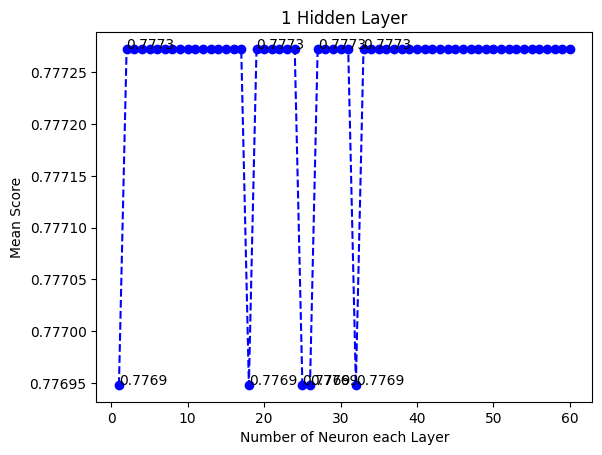
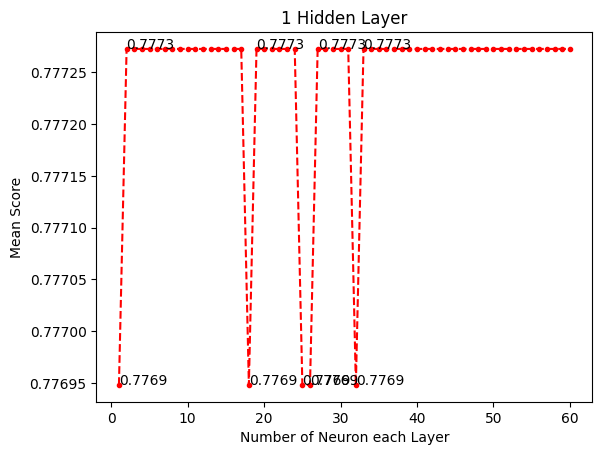
Updated variables and figures

diff --git a/FinalTest.py b/FinalTest.py
@@ -22,7 +22,7 @@ def split_data(csv, train_ratio, random_val, scale=True):
     return [x_train, x_test, y_train, y_test]
 
 # Generates neural network and runs fitting and prediction. Returns predictions, confusion matrix, and score
-def neural_network(data, hidden_layer_size, activation, solver, max_iter, shuffle = True, random_state = None):
+def neural_network(data, hidden_layer_size, activation, solver, max_iter, shuffle = False, random_state = None):
     mlp = MLPClassifier(hidden_layer_size, activation=activation, solver=solver, max_iter=max_iter, shuffle=shuffle, random_state=random_state)
     mlp.fit(data[0], data[2])
     prediction = mlp.predict(data[1])
@@ -35,17 +35,17 @@ def final_test(csv):
     solver = "lbfgs"
     
     # Test variables
-    num_test = 5
+    num_test = 200
     train_ratio = 0.8
     hidden_layer = (6, 6, 6, 6)
-    max_iteration = 100
+    max_iteration = 20
     results = [[], []]
 
     # Run test
     for test in range(num_test):
         print("Test run {} beginning".format(test+1))
         data = split_data(csv, train_ratio, test, True)
-        result = neural_network(data, hidden_layer, activation, solver, max_iteration, True, test)
+        result = neural_network(data, hidden_layer, activation, solver, max_iteration, False, test)
         results[0].append(result[1])
         results[1].append(result[2])
         print("Test run {} completed\n".format(test+1))
@@ -55,6 +55,17 @@ def final_test(csv):
     print("Mean Score: {}".format(mean_score))
     print("Summed Confusion Matrix:")
     print(sum(results[0]))
+
+    x = [i for i in range(1,num_test+1)]
+    y = results[1]
+    plt.figure()
+    plt.plot(x,y, "r.--")
+                
+    plt.title("Final Test")
+    plt.ylabel("Score")
+    plt.xlabel("Test Run")
+    plt.savefig("figures/Final_test/Final result",bbox_inches="tight")
+    plt.show()
 
 def main():
     # Reading csv file into dataframe

diff --git a/TestCase3-Iteration_test.py b/TestCase3-Iteration_test.py
@@ -34,11 +34,11 @@ def iteration_test(csv):
     solver = "lbfgs"
     
     # Test variables
-    num_test = 20
+    num_test = 30
     train_ratio = 0.8
     hidden_layer = (6, 6, 6, 6)
-    iteration_cap = 1000
-    iteration_hops = 5
+    iteration_cap = 100
+    iteration_hops = 1
     results = [[] for count in range(iteration_cap//iteration_hops)]
 
     # Run test
@@ -54,10 +54,7 @@ def iteration_test(csv):
     y = [sum(result)/num_test for result in results]
 
     plt.figure()
-    plt.plot(x,y)
-    for i,j in zip(x,y):
-            if j != y[i//iteration_hops-2]:
-                plt.annotate(str(round(j,4)),xy=(i,j))
+    plt.plot(x,y, "r.--")
                 
     plt.title("Iteration Test")
     plt.ylabel("Mean Score")

diff --git a/TestCase2-Hidden_Layers.py b/TestCase2-Hidden_Layers.py
@@ -64,7 +64,7 @@ def hidden_layer_test(csv):
         x = [num_neuron for num_neuron in range(neuron_iterate, max_neuron+neuron_iterate, neuron_iterate)]
 
         # Plotting
-        plt.plot(x, y, "bo--")
+        plt.plot(x, y, "r.--")
         for i,j in zip(x,y):
             if j != y[i//neuron_iterate-2]:
                 plt.annotate(str(round(j,4)),xy=(i,j))
